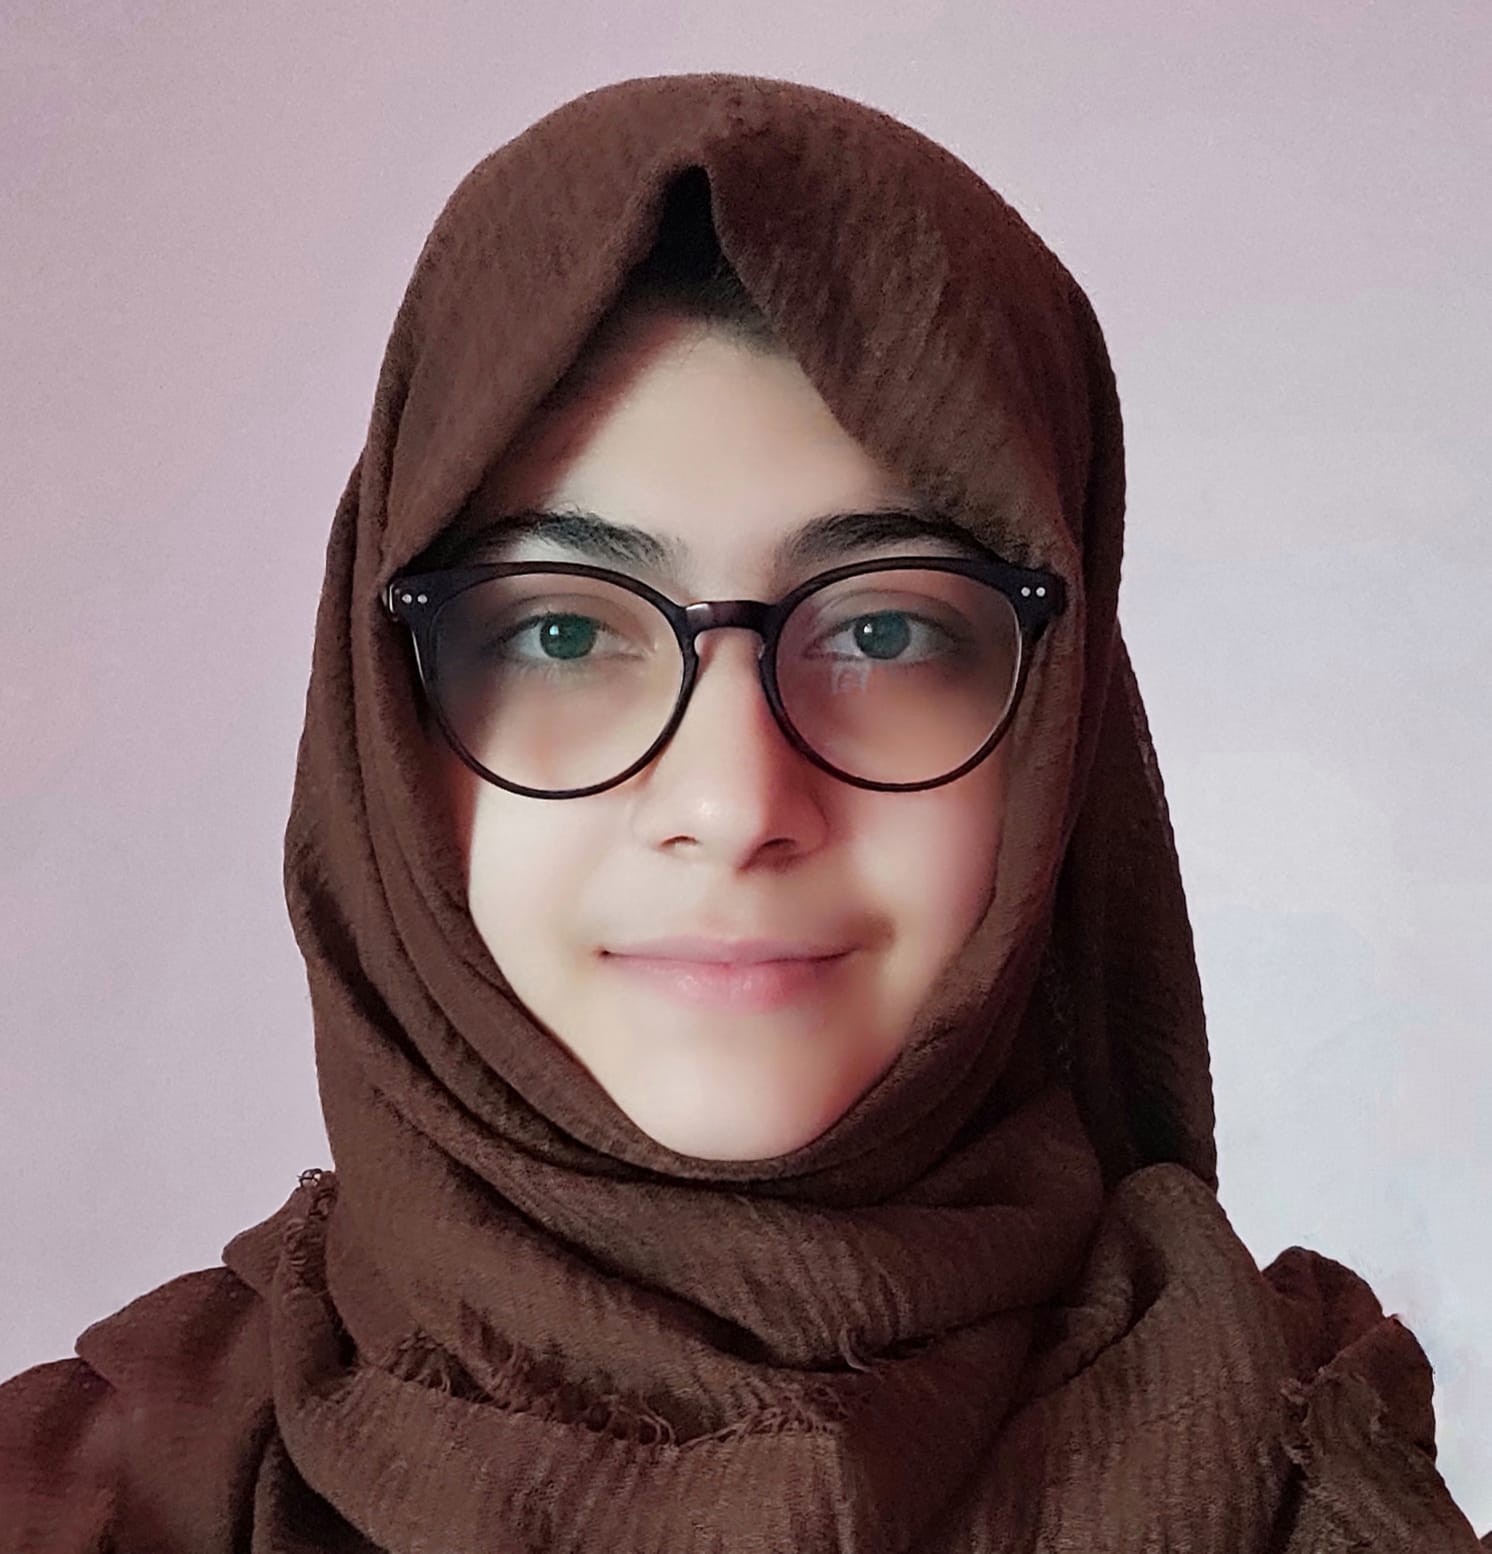
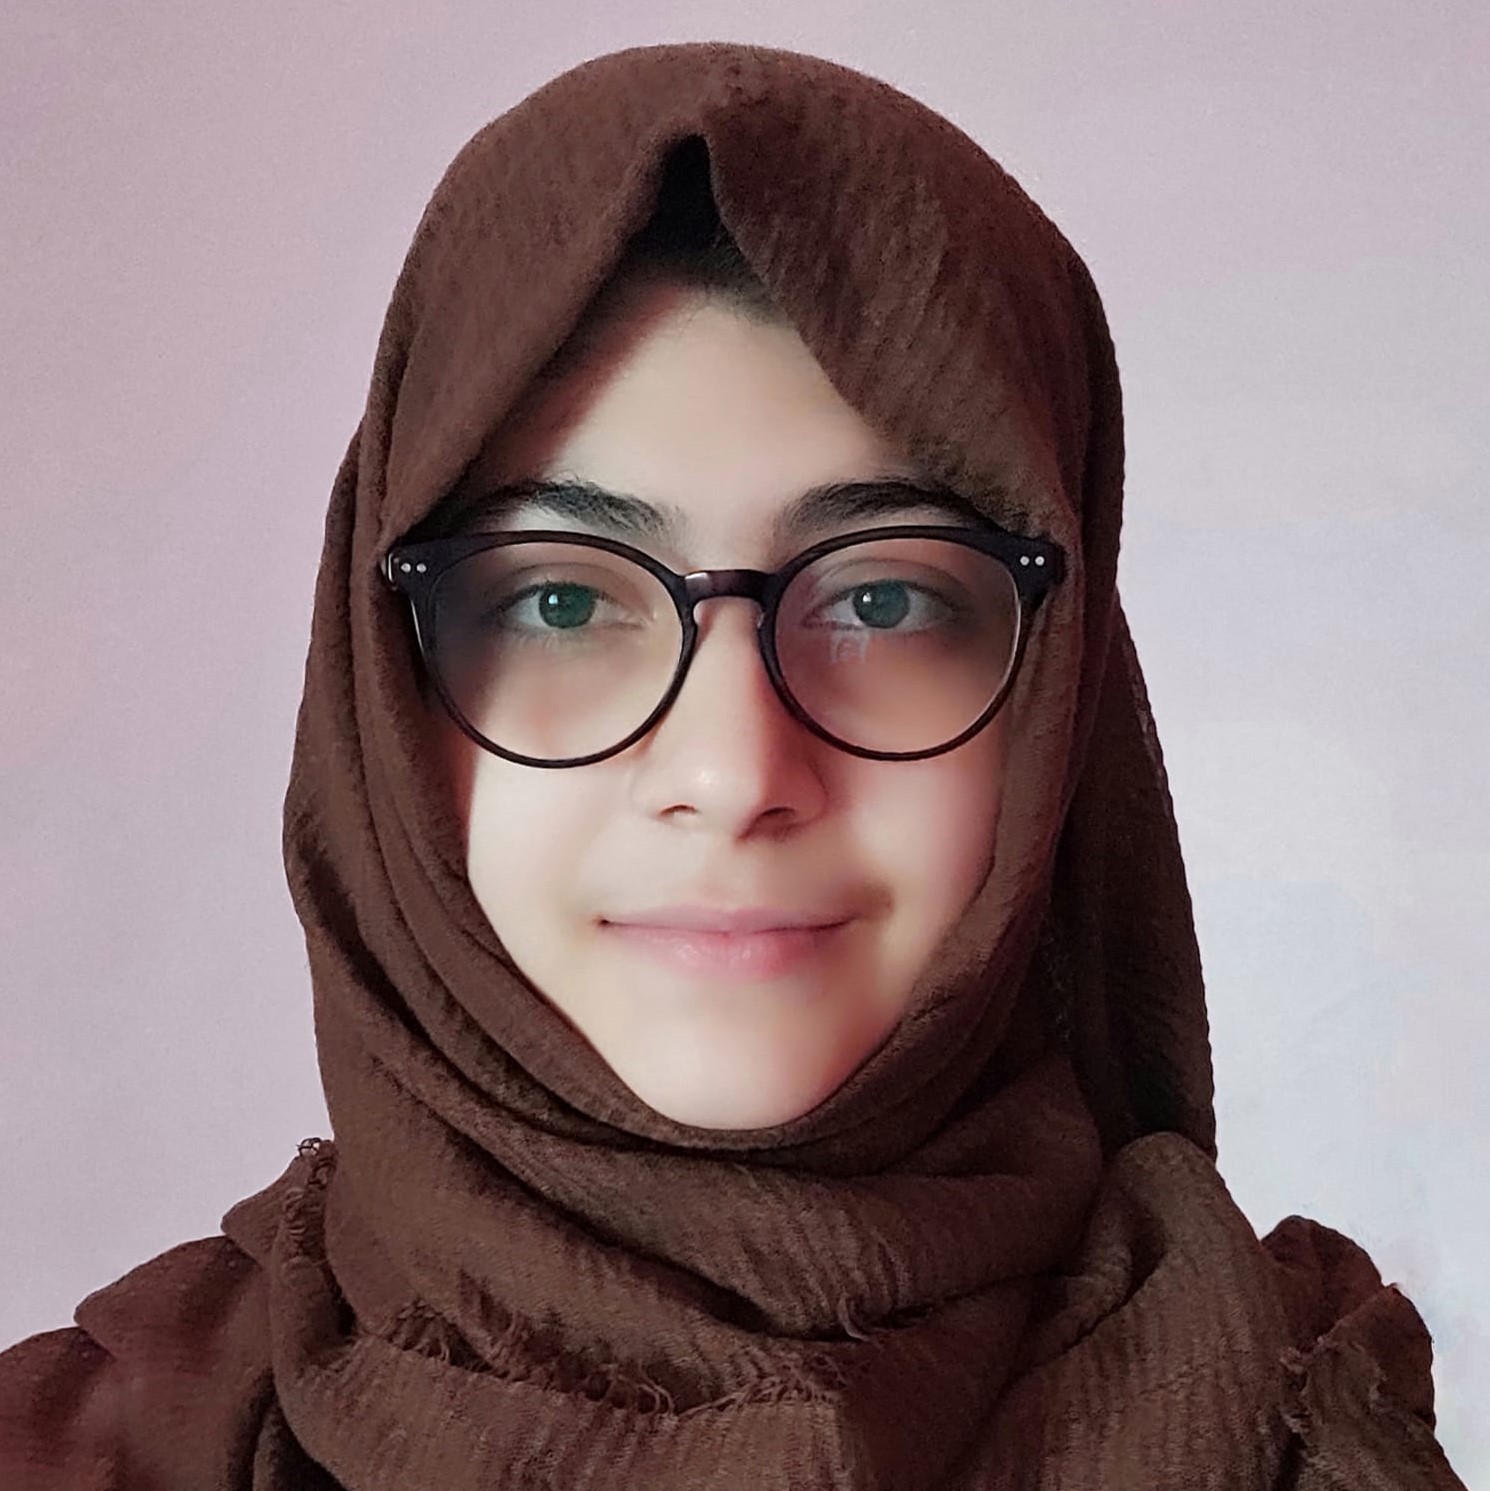
Fix: made all team member images 1:1

diff --git a/src/components/Team.js b/src/components/Team.js
@@ -208,19 +208,19 @@ export const Team = () => {
                 <div id="tab-3" className="tab-pane   show p-0">
                   <div className="container-xxl pt-5 pb-3">
                     <div className="container">
-                      <div className="row g-4 d-flex justify-content-center">
+                      <div className="d-flex justify-content-center">
                         <Cards
                           name="Mohammad Anas"
                           designation="Events Lead"
-                          social="https://www.linkedin.com/in/mohammad-anas-
-"
+                          social="https://www.linkedin.com/in/mohammad-anas-"
                           url="./images/DSC Team/Events and Management Team/Mohammad Anas.jpg"
                         />
+                      </div>
+                      <div className="row g-4 d-flex justify-content-center">
                         <Cards
                           name="Sakshi Sawant"
                           designation="Management Lead"
-                          social="https://www.linkedin.com/in/sakshi-shankar-sawant-3772431b3
-"
+                          social="https://www.linkedin.com/in/sakshi-shankar-sawant-3772431b3"
                           url="./images/DSC Team/Events and Management Team/sakshi sawant.jpg"
                         />
                         <Cards
@@ -242,8 +242,7 @@ export const Team = () => {
                         <Cards
                           name="Vedant Bhogawade"
                           designation="Technical Lead"
-                          social="https://www.linkedin.com/in/vedantbhogawade-785856193
-"
+                          social="https://www.linkedin.com/in/vedantbhogawade-785856193"
                           url="./images/DSC Team/Technical Team/Vedant Bhogawade.jpeg"
                         />
                       </div>
@@ -251,15 +250,13 @@ export const Team = () => {
                         <Cards
                           name="Aditi Gangadhar"
                           designation="Technical Team Member"
-                          social="https://www.linkedin.com/in/aditi-gangadhar-66009b205
-"
+                          social="https://www.linkedin.com/in/aditi-gangadhar-66009b205"
                           url="./images/DSC Team/Technical Team/Aditi Gangadhar.jpg"
                         />
                         <Cards
                           name="Kaif Khan "
                           designation="Technical Team Member"
-                          social="https://www.linkedin.com/in/kaif-khan-129882202
-"
+                          social="https://www.linkedin.com/in/kaif-khan-129882202"
                           url="./images/DSC Team/Technical Team/Kaif Khan.jpg"
                         />
                       </div>
@@ -275,17 +272,15 @@ export const Team = () => {
                         <Cards
                           name="Raj Thakur"
                           designation="Design And Content Lead"
-                          social="https://www.linkedin.com/in/raj-thakur-2b946a20b
-"
+                          social="https://www.linkedin.com/in/raj-thakur-2b946a20b"
                           url="./images/DSC Team/Content and Design team/Raj Thakur.jpeg"
                         />
                       </div>
                       <div className="row g-4 d-flex justify-content-center">
                         <Cards
-                          name="Iram Sayed"
+                          name="Iram Syed"
                           designation="Design And Content Team Member"
-                          social="https://www.linkedin.com/in/iram-syed-14030a16b
-"
+                          social="https://www.linkedin.com/in/iram-syed-14030a16b"
                           url="./images/DSC Team/Content and Design team/Iram Sayyad.jpeg"
                         />
                         <Cards
@@ -297,8 +292,7 @@ export const Team = () => {
                         <Cards
                           name="Sejal Agarwal"
                           designation="Design And Content Team Member"
-                          social="https://www.linkedin.com/in/sejal-agarwal-24876219a
-"
+                          social="https://www.linkedin.com/in/sejal-agarwal-24876219a"
                           url="./images/DSC Team/Content and Design team/Sejal Agarwal.jpeg"
                         />
                       </div>

diff --git a/src/components/Cards.js b/src/components/Cards.js
@@ -17,8 +17,7 @@ function Cards({ name, designation, social, url }) {
             <img
               className="img-fluid"
               src={url}
-              alt=""
-              style={{ height: "198px" }}
+              alt="Profile Picture"
             />
           </div>
           <h5 className="mb-0">{name}</h5>
@@ -30,6 +29,7 @@ function Cards({ name, designation, social, url }) {
               className="btn btn-square btn-primary mx-1 rounded-circle wave"
               href={social}
               target="_blank"
+              style={{marginBottom: '0px'}}
             >
               <i className="fab fa-linkedin-in"></i>
             </a>

diff --git a/public/index.html b/public/index.html
@@ -2,7 +2,7 @@
 <html lang="en">
   <head>
     <meta charset="utf-8" />
-    <link rel="icon" href="%PUBLIC_URL%/favicon.ico" />
+    <link rel="icon" href="./dsc-logo.png" />
     <meta name="viewport" content="width=device-width, initial-scale=1" />
     <meta name="theme-color" content="#000000" />
     <meta
